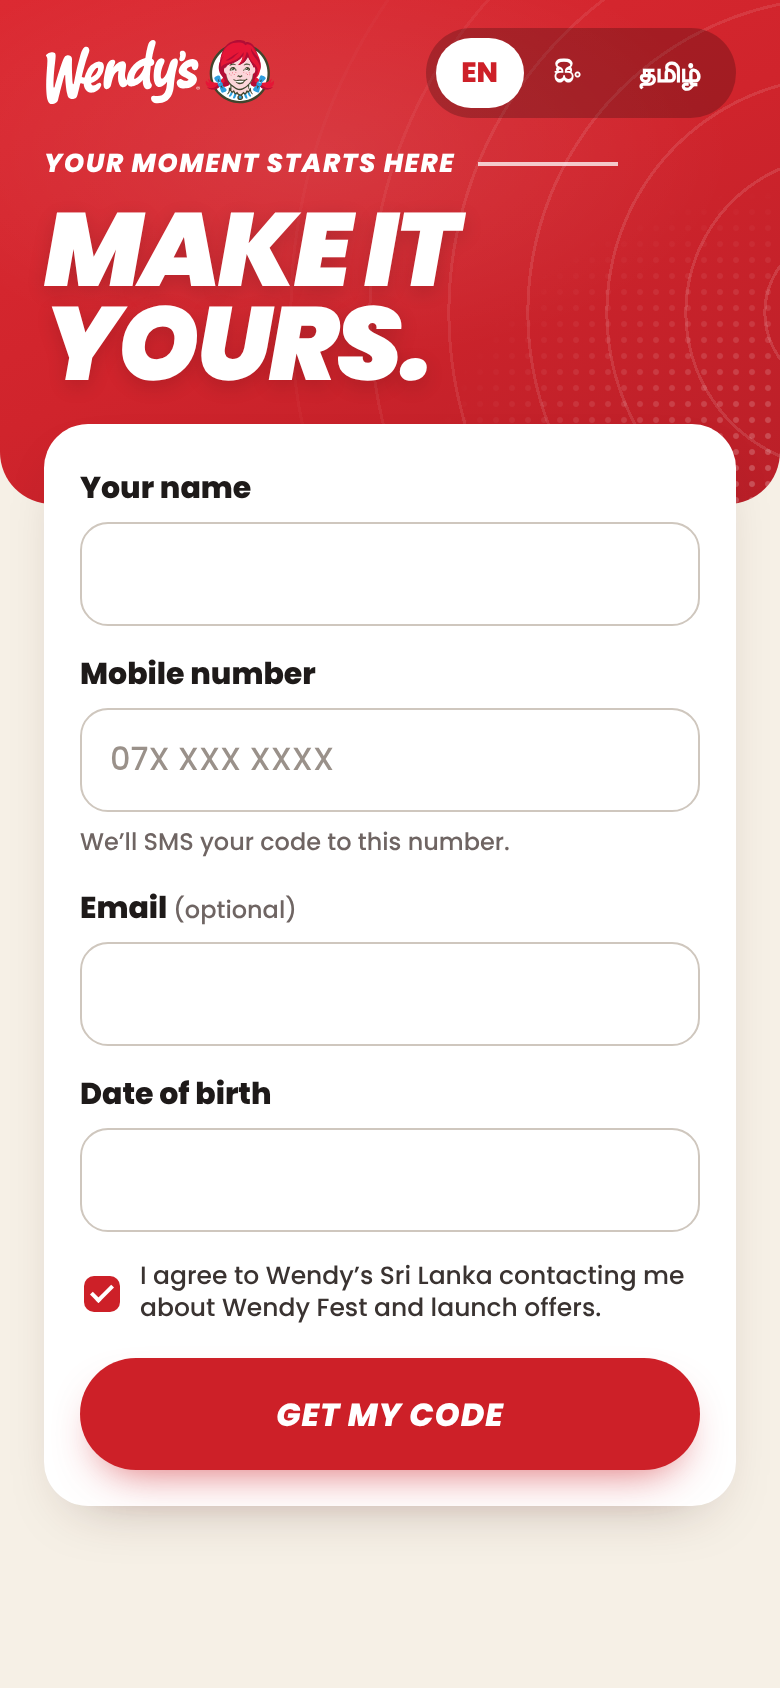
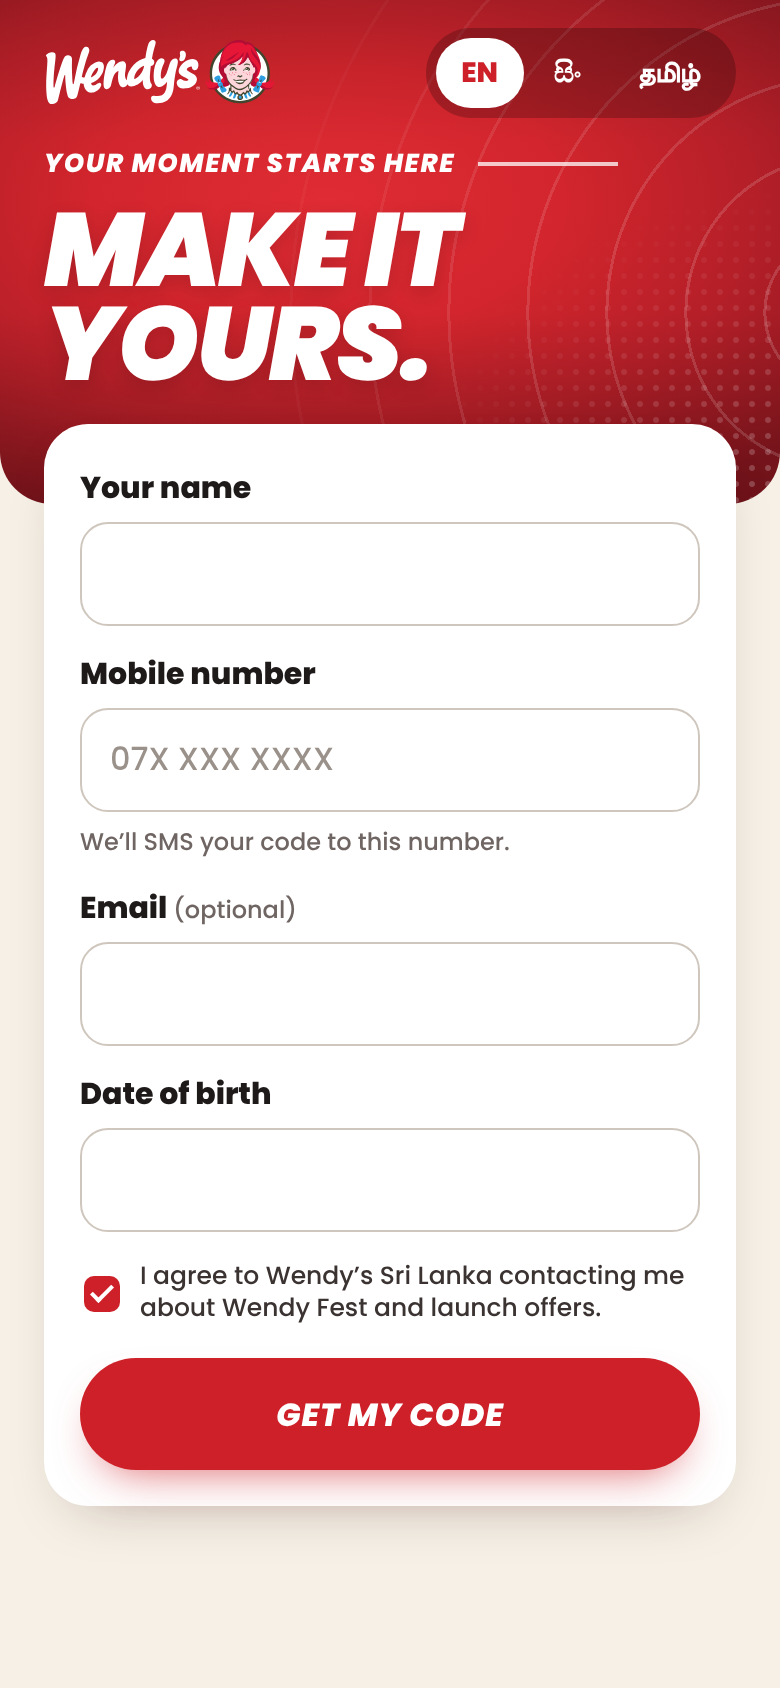
Design proposal: deeper red vignette gradient on headers
Claude-Session: https://claude.ai/code/session_015MHPvZ3kkn8jw5YatKY7r4

Changed region(s): [[0.0, 0.0, 1.0, 0.3081]]

diff --git a/design/after.css b/design/after.css
@@ -8,9 +8,9 @@ body { font-family: Poppins, system-ui, sans-serif; color:var(--ink); background
 /* ---- red header ---- */
 .hdr { position:relative; color:#fff; padding:16px 22px 26px; border-radius:0 0 26px 26px; overflow:hidden; flex:none; --rx:-12%; --ry:58%;
   background:
-    radial-gradient(90% 70% at 40% 30%, rgba(255,255,255,.09) 0%, transparent 60%),
-    linear-gradient(155deg, #DC2A32 0%, #D0242C 50%, #B91F28 100%); }
-.hdr::before { content:""; position:absolute; inset:0; pointer-events:none; opacity:.13;
+    linear-gradient(180deg, rgba(0,0,0,.10) 0%, rgba(0,0,0,0) 28%, rgba(0,0,0,0) 62%, rgba(0,0,0,.22) 100%),
+    radial-gradient(80% 70% at 42% 40%, #E02C34 0%, #D2252D 38%, #B51F28 68%, #8C1720 100%); }
+.hdr::before { content:""; position:absolute; inset:0; pointer-events:none; opacity:.16;
   background: repeating-radial-gradient(circle at var(--rx) var(--ry), transparent 0 38px, #fff 38px 39.5px);
   mask: radial-gradient(circle at var(--rx) var(--ry), #000 0%, rgba(0,0,0,.7) 40%, transparent 70%); -webkit-mask: radial-gradient(circle at var(--rx) var(--ry), #000 0%, rgba(0,0,0,.7) 40%, transparent 70%); }
 .hdr::after { content:""; position:absolute; right:-4px; bottom:-4px; width:190px; height:170px; pointer-events:none; opacity:.28;
@@ -28,8 +28,8 @@ body { font-family: Poppins, system-ui, sans-serif; color:var(--ink); background
 .eyebrow.dark::before { content:""; width:22px; height:14px; background:linear-gradient(90deg, var(--red) 0 42%, transparent 42% 58%, var(--red) 58%); transform:skewX(-22deg); flex:none; }
 .eyebrow.dark::after { background:var(--ink); opacity:.5; max-width:none; }
 .display { font-weight:900; font-style:italic; text-transform:uppercase; letter-spacing:-.025em; line-height:.9; }
-.h1 { font-size:57px; margin-top:12px; text-shadow:0 3px 10px rgba(0,0,0,.14); }
-.h1 .outline { color:transparent; -webkit-text-stroke:2px #fff; text-shadow:none; }
+.h1 { font-size:58px; margin-top:12px; letter-spacing:-.03em; text-shadow:0 4px 14px rgba(0,0,0,.22); }
+.h1 .outline { color:transparent; -webkit-text-stroke:2.5px #fff; text-shadow:none; }
 .h2 { font-size:52px; margin-top:12px; }
 .sub { font-style:italic; font-weight:600; font-size:18px; margin-top:12px; }
 .waves { position:absolute; width:70px; height:70px; }
@@ -98,7 +98,7 @@ body { font-family: Poppins, system-ui, sans-serif; color:var(--ink); background
 .ppass > *:not(.ghost) { position:relative; z-index:1; }
 .hdr.profile { padding-bottom:0; overflow:visible; border-radius:0; }
 .hdr.profile .bg { position:absolute; left:0; right:0; top:0; bottom:64px; border-radius:0 0 26px 26px; overflow:hidden; z-index:0;
-  background: radial-gradient(90% 70% at 40% 30%, rgba(255,255,255,.09) 0%, transparent 60%), linear-gradient(165deg, #DC2A32 0%, #CF232B 55%, #A91C25 100%); }
+  background: linear-gradient(180deg, rgba(0,0,0,.10) 0%, rgba(0,0,0,0) 28%, rgba(0,0,0,0) 62%, rgba(0,0,0,.22) 100%), radial-gradient(80% 70% at 42% 40%, #E02C34 0%, #D2252D 38%, #B51F28 68%, #8C1720 100%); }
 .hdr.profile .bg::before { content:""; position:absolute; inset:0; opacity:.13; background: repeating-radial-gradient(circle at -12% 30%, transparent 0 38px, #fff 38px 39.5px); mask: radial-gradient(circle at -12% 30%, #000 0%, rgba(0,0,0,.7) 40%, transparent 70%); -webkit-mask: radial-gradient(circle at -12% 30%, #000 0%, rgba(0,0,0,.7) 40%, transparent 70%); }
 .hdr.profile .bg::after { content:""; position:absolute; right:-4px; bottom:-4px; width:190px; height:170px; opacity:.28; background: radial-gradient(rgba(255,255,255,.9) 1.2px, transparent 1.8px) 0 0/8px 8px; mask: radial-gradient(ellipse at 100% 100%, #000 0%, rgba(0,0,0,.5) 35%, transparent 68%); -webkit-mask: radial-gradient(ellipse at 100% 100%, #000 0%, rgba(0,0,0,.5) 35%, transparent 68%); }
 .hdr.profile::before, .hdr.profile::after { display:none; }

diff --git a/design/after.html b/design/after.html
@@ -18,8 +18,8 @@
     <div class="eyebrow">Wendy Fest</div>
     <h1 class="display h1">Scream.<br>Get<br>roasted.<br><span class="outline">Win.</span></h1>
     <p class="sub" style="max-width:238px;font-size:17px">One fest. Two ways to play.</p>
-    <div class="waves" style="right:124px;top:262px"><i></i><i></i><i></i></div>
-    <img class="cameo" src="cameo.png" alt="" style="right:12px;top:250px;width:112px">
+    <div class="waves" style="right:122px;top:272px"><i></i><i></i><i></i></div>
+    <img class="cameo" src="cameo.png" alt="" style="right:10px;top:262px;width:108px">
   </header>
   <div class="body" style="gap:12px;padding-top:16px">
     <div class="mcard"><div class="num">01</div><div class="t">Scream &amp; Win</div><div class="d">Yell “WENDY’S!” into the mic. Loud enough and clear enough beats the meter and unlocks a reward code.</div></div>
